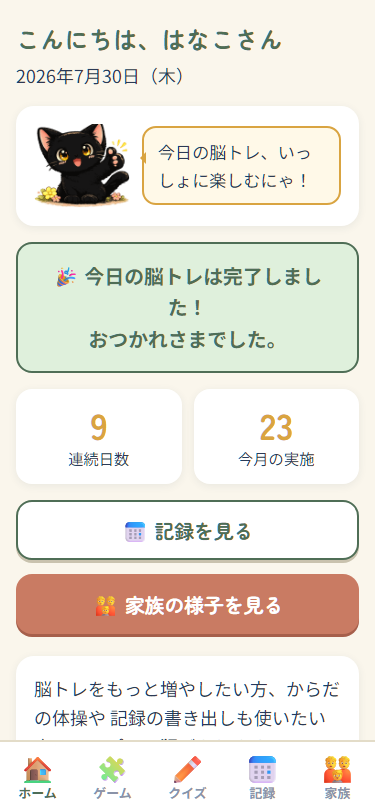
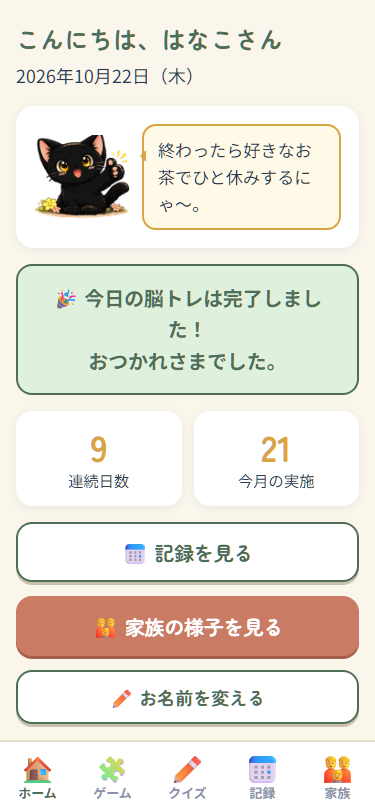
脳いきいき手帳の紹介：ホーム画面の写真を「お名前を変える」入りに差し替え

Changed region(s): [[0.0293, 0.1539, 0.968, 0.9236], [0.2053, 0.0616, 0.528, 0.1232]]

diff --git a/material/nouikiiki-tebo.html b/material/nouikiiki-tebo.html
@@ -553,7 +553,7 @@
   <div class="shots">
 
     <div class="shot">
-      <img src="../image/nouikiiki/free-home.png" alt="ホーム画面。あいさつと連続日数、記録を見るボタンが表示されている">
+      <img src="../image/nouikiiki/free-home.png" alt="ホーム画面。あいさつと連続日数、記録を見るボタン、お名前を変えるボタンが表示されている">
       <div class="body">
         <span class="label">ホーム</span>
         <h3>開くだけで、今日やることが決まる</h3>
@@ -561,6 +561,7 @@
         <ul>
           <li>連続日数と、今月の実施回数がひと目でわかる</li>
           <li>下のタブで、ゲーム・クイズ・記録に移れる</li>
+          <li>「お名前を変える」で、呼ばれる名前をいつでも変えられる（記録はそのまま）</li>
         </ul>
       </div>
     </div>

diff --git a/DEVLOG.md b/DEVLOG.md
@@ -5,6 +5,23 @@
 
 ---
 
+## 2026-10-22（木）その2 — 紹介ページのホーム画面の写真を「お名前を変える」入りに差し替え（公開ずみ）
+
+### やったこと
+- `image/nouikiiki/free-home.png`：新しいホーム画面（「✏ お名前を変える」ボタン入り）に撮り直し。375×812 で前と同じ大きさ。
+- `material/nouikiiki-tebo.html`：ホームの説明に「「お名前を変える」で、呼ばれる名前をいつでも変えられる（記録はそのまま）」を追加。alt も更新。
+
+### わかったこと・つまずいたこと
+- 撮り方：一時ページ（localStorage にはなこ・記録を入れてから 375×812 の iframe で nouikiiki/ を開く）を、画面なしEdge（別の --user-data-dir）で撮る。bash から msedge を呼ぶと終了コード2で何も作らない → PowerShell の Start-Process で呼んだら撮れた。一時ページは削除ずみ。
+- 日付は撮影日の 2026年10月22日、今月の実施は21（前の写真は7月30日・23）。
+
+### 次にやること
+- 特になし
+
+### 動作確認
+- ローカル：紹介ページで新しい写真（375×812）と3つ目の箇条書きを確認。
+- ライブ：下の push 後に確認（結果はこの下に追記）。
+
 ## 2026-10-22（木）— 脳いきいき手帳（無料版）に「お名前を変える」を追加（公開ずみ）
 
 ### やったこと
